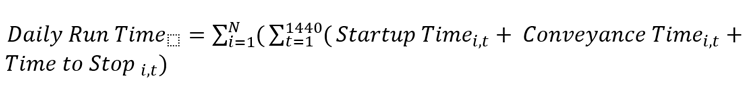
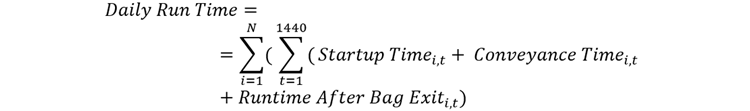
blog revision

diff --git a/reducing-energy-consumption.html b/reducing-energy-consumption.html
@@ -4,13 +4,13 @@
     <meta charset="UTF-8">
     <meta name="viewport" content="width=device-width, initial-scale=1.0">
     <meta http-equiv="X-UA-Compatible" content="ie=edge">
+    <!-- linkedin Post  -->
     <meta name="title" property="og:title" content="Using Simulation to Identify Strategies for Reducing Energy Consumption in Airport Baggage Handling Systems">
     <meta property="og:type" content="Article">
     <meta name="image" property="og:image" content="/images/blog/blog-reducing-energy-consuption-main.jpg">
     <meta name="description" property="og:description" content="The reduction in passenger traffic due to COVID-19 comes with a corresponding reduction in checked baggage volumes, making the importance of having energy efficient airport baggage systems even more critical. In many of today’s baggage systems, energy...">
     <meta name="author" content="Eric Miller">
-
-
+    <!--  -->
     <title>Reducing Energy Consumption | BNP Associates, Inc.</title>
     <link rel="shortcut icon" type="image/png" href="/images/favicon.png">
     <!-- Bootstrap CSS -->
@@ -106,104 +106,99 @@
             <div class="blog-story">
                 <h3 class=" blog-story__headings margin-sm">Overview</h3>
                     <p>
-                        The reduction in passenger traffic due to COVID-19 comes with a corresponding reduction in checked baggage volumes, making the importance of having energy efficient airport baggage systems even more critical. In many of today’s baggage systems, energy is wasted when conveyors run while no bags are present. This is due to the baggage handling systems being designed with a Zone Methodology approach, wherein a group of conveyors are started at the same time and run continuously until the zone has been cleared of bags for 10 or more minutes. This results in running many conveyors unnecessarily during low demand periods. When bag volume is low, there is a poor return in energy consumed to the number of bags handled.
+                        Conserving energy is a goal for every baggage handling system. Although BNP has been working with airports to implement energy saving policies and infrastructure long before the current health crisis, the reduction in baggage volumes associated with COVID-19 highlights the importance of having energy efficient systems. 
                     </p>
                     <p>
-                        Enhanced Drives can start and stop conveyors with essentially no detrimental effect on the drive system, eliminating the need for large conveyor zones. Enhanced Drives can make the overall system or process more energy efficient by only using the motors when required or tuning the motor output for a desired operation. Running conveyors only when bags are present is referred to as a “Small Group Methodology.” Enhanced Drives include Soft Starter for Motors (SSMs), Variable Frequency Drives (VFDs), Permanent Magnet Motors (PMMs), and Synchronous Reluctance Motors (SRMs).
+                        In many of today’s baggage systems, energy is wasted when conveyors operate while no bags are present. This is due to the baggage handling systems being designed with a Zone Methodology approach in which a group of conveyors are started at the same time and run continuously until the zone has been cleared of bags for 10 or more minutes. This results in running many conveyors unnecessarily during low demand periods. When bag volume is low, there is a poor return in energy consumed compared to the number of bags handled. 
                     </p>
                     <p>
-                        BNP has evaluated the Small Group Methodology as an option for the replacement and upgrade of existing systems. The theory is simple, only run a conveyor when a bag is present, and do not run the conveyor when there are no bags. The logic implemented for Small Group Methodology will turn the motor at a fixed location prior to the bag reaching the conveyor, and will turn the motor off after a fixed time after the bag exits the conveyor, if no other bags are present.
+                        Enhanced drives can start and stop conveyors with essentially no detrimental effect on the drive system while greatly enhancing equipment life and reducing bagroom noise levels. Enhanced drives can make the overall system or process more energy efficient by only using the motors when required or tuning the motor output. Running conveyors only when bags are present is referred to as a “Small Group Methodology.” Enhanced drives include, Variable Frequency Drives (VFDs), Permanent Magnet Motors (PMMs), and Synchronous Reluctance Motors (SRMs) C-faced coupled to a gear box. Combining enhanced drives with industrial ethernet connections and modified distributed I/O methodologies provides for the opportunity to design systems that achieve substantial energy savings. 
                     </p>
                     <p>
-                        Simulation modeling was used to estimate total daily power consumption for multiple conveyor time-out delay settings. This study was performed at a major hub airport in the United States and included the flow of originating bags from induction at ticket counters through delivery of all bags to the final makeup devices. Operations including ticketing, baggage screening, explosive trace detection and manual encode were modeled, incorporating all conveyors, merges, and diverters from induction to makeup device for the outbound Baggage Handling System.
-                    </p>
-                    
-                    <h3 class=" blog-story__headings margin-sm">Zone Methodology</h3>
-
-                    <p>
-                        In the Zone Methodology, all the conveyors in the zone are restarted at the same time, with only brief cascade restart delays between conveyors. In the Zone Methodology analysis, all the conveyors in a zone were set to run continuously until no bags were seen in that zone for 10 minutes. This resulted in running many conveyors for an extended time, even during low demand periods.
+                        BNP has evaluated the Small Group Methodology as an option for the replacement and upgrade of existing systems. The theory is simple, only run a conveyor when a bag is present and don’t run the conveyor when it is empty. The logic implemented for Small Group Methodology will turn the motor on at a fixed location prior to the bag reaching the conveyor and will turn the motor off after a fixed time after the bag exits the conveyor, if no other bags are present.   
                     </p>
                     <p>
-                        Figure 1 shows an example of a conveyor line running using the Zone Methodology. If a bag enters the ticket counter in Zone 1, all twenty conveyors in Zone 1 are restarted. When the bag reaches the Zone 2 auto-start trigger photo-eye, all forty conveyors in Zone 2 are started. Each zone will continue to run for approximately 10 minutes after the zone is clear of all bags before auto-stopping. If another bag enters the zone in that period, the timeout timing is reset, and the conveyor must run for 10 minutes without any bags before the zone stops.
+                        Upgrading existing systems requires both hardware and controls software upgrades to achieve the full benefit of energy savings. It is not a solution that can be implemented overnight; however, for those airports that are upgrading existing systems or installing new systems, options for reducing energy consumptions should be carefully evaluated.    
                     </p>
-                <div class="blog-img-container">
-                    <img src="/images/blog/blog-reducing-energy-consuption-zone-methodology.png" alt="Zone Methodology" class="blog-img-container__img img-550">
-                    <p class="blog-img-container__caption">Figure 1:  Zone Methodology</p>
-                </div>
+                    <p>
+                        Simulation modeling was used to estimate total daily power consumption for multiple conveyor time-out delay settings. This study was performed at a major hub airport in the United States and included the flow of originating bags from induction at ticket counters through delivery of all bags to the final makeup devices. Operations including ticketing, baggage screening, explosive trace detection, and manual encode were modeled, incorporating all conveyors, merges, and diverters from induction to makeup device for the outbound baggage handling system.  Study results project that systems that implement the Small Zone Methodology would see up to a 59% reduction in energy costs. Additionally, the airport would benefit from further cost savings associated with the reduced wear and tear on system components.    
+                    </p>
+                <h3 class=" blog-story__headings margin-sm">Zone Methodology</h3>
+                    <p>
+                        In Zone Methodology, all the conveyors in the zone are restarted at the same time with only brief cascade restart delays between conveyors. All the conveyors in a zone were set to run continuously until no bags were seen in that zone for 10 minutes. This resulted in running many conveyors for an extended time, even during low demand periods. 
+                    </p>
+                    <p>
+                        Figure 1 shows an example of a conveyor line running using the Zone Methodology. If a bag enters the ticket counter in Zone 1, all twenty conveyors in Zone 1 are restarted. When the bag reaches the Zone 2 auto-start trigger photo-eye, all forty conveyors in Zone 2 are started. Each zone will continue to run for approximately 10 minutes after the zone is clear of all bags before auto-stopping. If another bag enters the zone in that period, the timeout timer is reset, and the conveyor must run for 10 minutes without any bags before the zone stops. 
+                    </p>
+                    <div class="blog-img-container">
+                        <img src="/images/blog/blog-reducing-energy-consuption-zone-methodology.png" alt="Zone Methodology" class="blog-img-container__img img-550">
+                        <p class="blog-img-container__caption">Figure 1:  Zone Methodology</p>
+                    </div>
                 <h3 class=" blog-story__headings margin-sm">Small Group Methodology with Enhanced Drives</h3>
                     <p>
-                        The use of Enhanced Drives throughout the BHS along with the Small Group Methodology eliminates the need for conveyor zones. Enhanced Drives allow individual motor control, ramped start and stop of conveyors, and adjustment of the motors to the current process load, creating more versatile conveyors.
+                        The use of enhanced drives throughout the BHS along with the Small Group Methodology eliminates the need for conveyor start/stop zones. Enhanced drives allow individual motor control, ramped start and stop of conveyors, and adjustment of the motors to the current process load, creating more efficient conveyors. 
                     </p>
                     <p>
-                        Downstream conveyors are started a few seconds prior to the bag reaching the conveyor. The trigger point is located at an upstream photo-eye with a fixed offset travel time to the charge-end of the conveyor. After the bag exits a conveyor, the conveyor turns off after a time-out delay, if no other bags have reached the upstream photo-eye. If a fault occurs or the downstream conveyor is stopped, the conveyors will become idle and the upstream conveyors will cascade stop.
+                        Downstream conveyors are started a few seconds prior to the bag reaching the conveyor. A photo-eye installed upstream of a conveyor will trigger conveyor startup with a fixed offset travel time to the charge-end of the conveyor. After the bag exits a conveyor, the conveyor turns off after a time-out delay if no other bags have reached the upstream photo-eye. If a fault occurs or the downstream conveyor is stopped, the conveyors will become idle and the upstream conveyors will cascade stop as in normal operations. 
                     </p>
                     <p>
-                        The logic implemented in the simulation consists of a variable time-out delay that will turn off the motor after the last bag exits the conveyor. Various time-outs values from one second to 10 minutes were evaluated to understand both the impact to energy consumption and the frequency of conveyor stoppages and restarts.
+                        The logic implemented in the simulation consists of a variable time-out delay that will turn off the motor after the last bag exits the conveyor. Various time-out values from one second to 10 minutes were evaluated to understand both the impact to energy consumption and the frequency of conveyor stoppages and restarts. 
                     </p>
                     <p>
-                        Figure 2 shows an example of conveyors running using the Small Group Methodology.
+                        Figure 2 shows an example of conveyors running using the Small Group Methodology. 
                     </p>
-                <div class="margin-sm-med">
-                    <style>.embed-container { position: relative; padding-bottom: 55%; height: 0; overflow: hidden; max-width: 100%; height: auto; } .embed-container iframe, .embed-container object, .embed-container embed { position: absolute; top: 0; left: 0; width: 100%; height: 100%; }</style><div class='embed-container'><iframe src="https://player.vimeo.com/video/428600338" width="640" height="352" frameborder="0" allow="autoplay; fullscreen" allowfullscreen></iframe></div>
-                    <p class="blog-img-container__caption">Figure 2: Small Group Methodology</p>
-                </div>
-                    <p>
-                        In some cases, a bag could be downstream from a conveyor, and trip the startup PE; however, the bag may divert to another line before reaching the conveyor. If a bag fails to reach the end of the conveyor within a specified amount of time, then the time out delay timer starts. If no additional bags arrive to the conveyor or no additional bags cross the startup PE during the time-out delay, then the conveyor is stopped upon expiration of the timer.
-                    </p>
-
+                    <div class="margin-sm-med">
+                        <style>.embed-container { position: relative; padding-bottom: 55%; height: 0; overflow: hidden; max-width: 100%; height: auto; } .embed-container iframe, .embed-container object, .embed-container embed { position: absolute; top: 0; left: 0; width: 100%; height: 100%; }</style><div class='embed-container'><iframe src="https://player.vimeo.com/video/428600338" width="640" height="352" frameborder="0" allow="autoplay; fullscreen" allowfullscreen></iframe></div>
+                        <p class="blog-img-container__caption">Figure 2: Small Group Methodology</p>
+                    </div>
                 <h3 class=" blog-story__headings margin-sm">Energy Calculation Methodology</h3>
                     <p>
-                        The daily run time for each conveyor is determined by monitoring each conveyor’s status throughput the simulation. Under the implementation of the Small Group Methodology, each motor will start at a constant time Startup Time N before a bag reaches the charge end of the conveyor and will stop running following the timeout delay after the bag has completely exit the conveyor. The conveyor will continue to operate if another crosses the startup PE bag before the timeout delay expires.
+                        The daily run time for each conveyor is determined by monitoring each conveyor’s status throughput the simulation. Under the implementation of the Small Group Methodology, each motor will start at a constant time before a bag reaches the charge end of the conveyor and will stop running following the timeout delay after the bag has completely exit the conveyor. The conveyor will continue to operate if another bag crosses the startup PE before the timeout delay expires. 
                     </p>
                     <p>
-                        The formula for computing the daily runtime where each conveyor is its own Small Zone with (for “N” conveyors in the system) in operation over a day is as follows:
+                        The formula for computing the daily runtime where each conveyor is its own Small Zone with (for “N” conveyors in the system) in operation over a day is as follows: 
                     </p>
-
-                <div class="blog-img-container">
-                    <img src="/images/blog/blog-reducing-energy-consuption-daily-run-time.png" alt="Daily Run Time" class="blog-img-container__img">
-                </div>
+                    <div class="blog-img-container">
+                        <img src="/images/blog/blog-reducing-energy-consuption-daily-run-time.png" alt="Daily Run Time" class="blog-img-container__img">
+                    </div>
                     <p>
                         where,<br>
-                        Startup Time i,t= the time for the head end of the bag to travel from the startup controlling PE for Small Zone i to the head end of the first conveyor in Small Zone i, in minute t
+                        Startup Time i,t  = the time for the head end of the bag to travel from the startup controlling PE for conveyor i to the head end of the first conveyor in Small Zone i, in minute t.
                     </p>
-                <div class="blog-img-container">
-                    <img src="/images/blog/blog-reducing-energy-consumption-conveyance-time.png" alt="Conveyance Time" class="blog-img-container__img">
-                </div>
+                    <div class="blog-img-container">
+                        <img src="/images/blog/blog-reducing-energy-consumption-conveyance-time.png" alt="Conveyance Time" class="blog-img-container__img">
+                    </div>
                     <p>
-                        Time to Stop i,t= time conveyor i continues to run in time t after the bag the bag exited conveyor before the time out delay timer expires. If another bag trips the startup PE before the timeout expires, then the belt will not stop.
+                        Runtime After Bag Exit i,t = time t conveyor i continues to run when empty 1) after a bag exits conveyor i before the time out delay expires, or 2) another bag passes the controlling startup PE.
                     </p>
                     <p>
-                        The simulation generates the run time in minutes for each conveyor, as well as the number of times each conveyor is started each minute. The required horsepower for each conveyor is calculated using BNP’s modified CEMA (Conveyor Equipment Manufacturers Association) standards. Using the conveyors nominal horsepower, the daily runtime energy in KWh is calculated. This formula includes a penalty for the energy used by a conveyor during startup (typically for NEMA B motors) and the startup time required:
+                        The simulation generates the run time in minutes for each conveyor, as well as the number of times each conveyor is started each minute. The required horsepower for each conveyor is calculated using BNP’s modified CEMA (Conveyor Equipment Manufacturers Association) standards. Using the conveyors nominal horsepower, the daily runtime energy in Kilowatt hours (KWH) is calculated. This formula includes a penalty for the energy used by a conveyor during startup (typically for NEMA B motors) and the startup time required:
                     </p>
-                <div class="blog-img-container">
-                    <img src="/images/blog/blog-reducing-energy-consumption-energy-consumed.png" alt="Energy Consumed" class="blog-img-container__img">
-                </div>
+                    <div class="blog-img-container">
+                        <img src="/images/blog/blog-reducing-energy-consumption-energy-consumed.png" alt="Energy Consumed" class="blog-img-container__img">
+                    </div>
                     <p>
                         The total energy consumed by the system is the sum of the energy consumed by each of the conveyors in the system.
                     </p>
-                    <p>
-                        Results<br>
-                        Both the Small Group Methodology and Zone Methodology for the proposed BHS was modeled over a twenty-four-hour period. The total energy consumption and corresponding average startups per conveyor for each timeout delay over the entire day are provided in Figure 3
+                <h3 class=" blog-story__headings margin-sm">Results</h3>
+                    <p>   
+                        Both the Small Group Methodology and Zone Methodology for the proposed BHS was modeled over a twenty-four-hour period using projected flight schedules and demand levels. The total energy consumption and corresponding average startups per conveyor for each timeout delay over the entire day are provided in Figure 3.
                     </p>
-                <div class="blog-img-container">
-                    <img src="/images/blog/blog-reducing-energy-consumption-daily-energy-consumption.png" alt="Energy Consumed" class="blog-img-container__img">
-                    <p class="blog-img-container__caption">Figure 3: Daily Energy Consumption (KWH) vs. Startups per Conveyor</p>
-                </div>
-                
-                <p>
-                    The simulation modeling demonstrated that substantial energy savings can be achieved by implementing a Small Zone Methodology and turning motors off when bags are not present.
-                    As the timeout delay is decreased, the daily energy consumption reduces since conveyors run for a shorter amount of time. At a one-second timeout delay, the Small Zone Methodology provides an estimated 59% power savings compared to the Zone Methodology with a ten-minute zone time out.
-                </p>
-                <p>
-                    BNP is a worldwide leading provider of specialized design and consulting services to the air transport industry. We offer expertise in designing new baggage systems and designing upgrades to existing baggage systems to improve operational efficiency and performance.
-                </p>
-
-
-
-
-           
-            <div class="underline margin-sm"></div>
-
+                    <div class="blog-img-container">
+                        <img src="/images/blog/blog-reducing-energy-consumption-daily-energy-consumption.png" alt="Energy Consumed" class="blog-img-container__img">
+                        <p class="blog-img-container__caption">Figure 3: Daily Energy Consumption (KWH) vs. Startups per Conveyor</p>
+                    </div>
+                    <p>
+                        The simulation modeling demonstrated that substantial energy savings can be achieved by implementing a Small Zone Methodology and turning motors off when bags are not present.
+                    </p>
+                    <p>
+                        As the timeout delay is decreased, the daily energy consumption reduces since conveyors run for a shorter amount of time. At a one-second timeout delay, the Small Zone Methodology provides an estimated 59% power and maintenance cost savings compared to the Zone Methodology with a ten-minute zone time out. 
+                    </p>
+                    <p>
+                        BNP is a worldwide leading provider of specialized design and consulting services to the air transport industry. We offer expertise in designing new baggage systems and designing upgrades to existing baggage systems to improve operational efficiency and performance. 
+                    </p>
+                    <div class="underline margin-sm"></div>
+                    
             <div class="share-container">
                 <h5 class="share-container__header">Share this post</h5>
                 <ion-icon name="arrow-redo-outline"></ion-icon>
@@ -211,11 +206,6 @@
                 <ion-icon name="mail-outline"></ion-icon>
                     <a class="share-container__link" href="mailto:?&subject=&body=https://www.bnpassociates.com/reducing-energy-consumption.html ">Send</a>
             </div>
-
-            <!-- <li><a href="https://www.facebook.com/sharer.php?u=https%3A%2F%2Fwww.bnpassociates.com%2F%2Freducing-energy-consumption.html">Share on Facebook</a></li>
-<li><a href="https://twitter.com/intent/tweet?url=https%3A%2F%2Fwww.bnpassociates.com%2F%2Freducing-energy-consumption.html">Share on Twitter</a></li>
-<li><a href="https://www.linkedin.com/shareArticle?mini=true&url=https%3A%2F%2Fwww.bnpassociates.com%2F%2Freducing-energy-consumption.html">Share on LinkedIn</a></li> -->
-
             <div class="margin-med"></div>
         </div>
         </section>

diff --git a/news.html b/news.html
@@ -95,7 +95,7 @@
                 </div>
                 <div class="post-item__info">
                     <h3 class="post-item__info-heading mb-3">Reducing Energy Consumption in Airport Baggage Handling Systems</h3>
-                    <p class="post-item__info-text">The reduction in passenger traffic due to COVID-19 comes with a corresponding reduction in checked baggage volumes, making the importance of having energy efficient airport baggage systems.</p>
+                    <p class="post-item__info-text">Conserving energy is a goal for every baggage handling system. Although BNP has been working with airports to implement energy saving policies and infrastructure long before the current health crisis...</p>
                     <p class="post-item__info-published">Published on June XX, 2020</p>
                 </div>
             </div>
